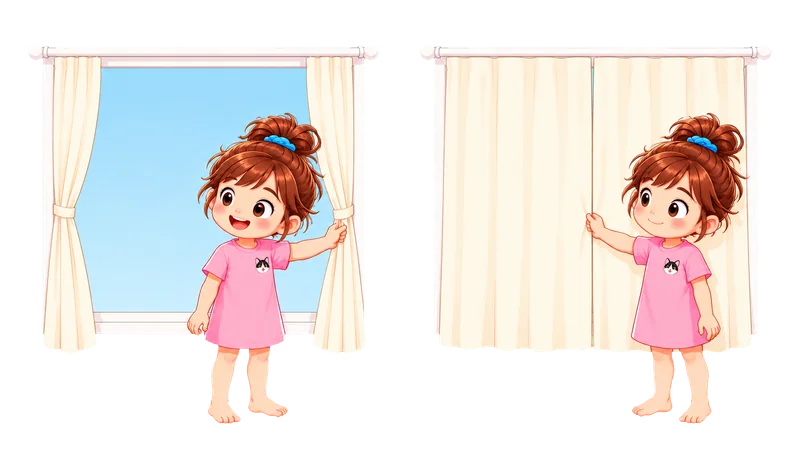
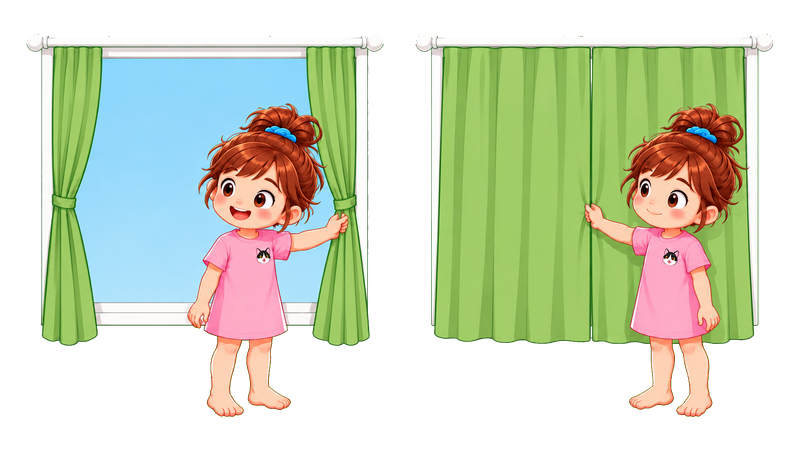
女の子のカーテンを若草色に変更

diff --git a/docs/image-log.md b/docs/image-log.md
@@ -2,6 +2,47 @@
 
 このファイルは `docs/image-prompts.md` に基づく制作の記録。**候補と採用済みを区別する。** 新しい画像を採用した場合は、実際に使ったプロンプト全文、添付した基準画像、透過・サイズ検査、所有者の承認を追記する。
 
+## 2026-10-11 — Action Match 女の子版「Open it.」「Close it.」カーテンを若草色に変更
+
+- **理由・採用：** 元の淡いクリーム色のカーテンは、実際のカードのクリーム色の背景に溶けて見えにくかった。落ち着いた若草色（基準 `#8FBF6A`）で全面的に描き直した `private-prototypes/action-match/action-open-girl-v4a.png.webp` を採用し、公開ルートの `action-open-girl-v2a.png.webp` にコピーして上書きした。候補 v4b は不採用。
+- **Close it.：** `private-prototypes/action-match/action-close-girl-v3a.png.webp` は、若草色の Open it. v4a の左右400×450pxを復号後の画素そのままで入れ替えたもの。こちらを公開ルートの `action-close-girl-v1a.png.webp` にコピーして上書きした。Close it. の画像生成プロンプトはなく、別案 v3b は不採用。両候補の元ファイルは非公開フォルダに残した。
+- **旧版の保存先：** 上書き前の公開画像は、`private-prototypes/action-match/action-open-girl-v2a.png.webp` と `private-prototypes/action-match/action-close-girl-v1a.png.webp` にそれぞれバイト単位で一致した。これらをクリーム色の元版として保管し、別名の退避ファイルは作らない。この後の v2a／v1a の生成・採用記録は、クリーム色版を制作した当時の記録である。公開側はファイル名を維持するが、中身は若草色版（それぞれ元は v4a／v3a）。
+- **不採用にした過程：** カーテンを領域指定で色置換した `action-open-girl-v3a.png.webp`／`action-close-girl-v2a.png.webp` と、人物マスクを追加した `action-open-girl-v3b.png.webp`／`action-close-girl-v2b.png.webp` は、人物との境目に緑のにじみやクリーム色のまだらが出たため不採用。画像を生成し直した v4a を採用した。
+- **元画像との差：** v4a はカーテン以外にも窓枠とレールがやや太く、顔・手の描線に小さな差がある。動作の意味は変わらないため許容した。
+- **仕上げ・検査：** 純緑背景 `#00FF00` の生成画像をアルファ透過し、縦横比を保って各800×450pxに収め、lossless WebP として保存。公開側と採用候補はそれぞれバイト単位で一致。公開2枚の四隅のアルファ値はすべて0。Close it. の対応コマは Open it. と復号後の画素が一致する。
+
+### v4a・v4b の生成時に添付した参考画像
+
+1. 公開ルートの旧 `action-open-girl-v2a.png.webp`（生成時の編集対象。構図・人物・窓・手・表情の基準。現在の公開ファイルは若草色版に差し替え済み）
+2. `docs/characters/girl-daywear-v1.png.webp`（顔・髪・昼服）
+3. 公開ルートの `cat-mascot-v2-small.png.webp`（胸の猫の顔）
+
+### 採用 v4a の生成プロンプト全文
+
+```text
+Use case: precise-object-edit
+Asset type: Action Match two-panel children's game illustration, Open it.
+Input images: Image 1 is the exact edit target and master for composition, character, window, hands, expressions, and proportions: action-open-girl-v2a.png.webp. Image 2 is only a reference for the same girl's face, high brown hair bun, blue scrunchie, pink daywear dress, and bare feet: girl-daywear-v1.png.webp. Image 3 is only a reference for the tiny simplified black-and-white cat face on her chest: cat-mascot-v2-small.png.webp.
+Primary request: Recreate Image 1 as faithfully as possible. Change ONLY the curtain and curtain tiebacks from pale cream to solid muted young-grass green centered around #8FBF6A. Use lighter and darker shades of the same green for fabric folds, with a fine darker-green contour. Never use chroma-key #00FF00 in the curtain.
+Composition: Wide 16:9, two equal-width side-by-side panels, no divider, no arrow. Left panel is BEFORE: curtains fully closed, the girl stands slightly in front of the window near its middle, body turned about 30 degrees toward it, with one hand touching the vertical center seam and the other arm at her side; calm focused gentle closed-mouth expression. Right panel is AFTER: curtains open from the middle to both sides, held by green fabric tiebacks, revealing a single flat pale blue sky; the same girl stands in the same place and size, holding a curtain edge with one hand; cheerful open-mouth smile. Keep the centered seam visible beside the girl. Keep all subjects clear of the panel boundary.
+Identity and invariants: Same single little girl in both panels; short pink sleeve dress, small cat-face emblem, bare feet, high brown bun with blue scrunchie. Keep her face shape, hair, body proportions, expression in each panel, pose, hand placements, height, foot baseline, and window size/position as close to Image 1 as possible. Shoulders, waist, legs, and face align naturally with no twist. White window frame and white curtain rail unchanged. Pale blue sky unchanged; no objects outside the window. Same polished children's-book digital illustration style.
+Backdrop: Pure flat chroma-key green #00FF00 outside the illustration, with no shadows, vignette, haze, translucent white mist, or extra background. The curtains are a clearly different muted green, not #00FF00.
+Avoid: changing the girl, pink outfit, cat badge, white frame, rail, sky color, window position, or panel layout; extra characters, cats, chairs, hats, socks, toys, books, boxes, text, symbols, arrows, stripes, patterns, ornamentation. No green bleed on hair, face, hands, dress, legs, or cat badge. All outline boundaries clean.
+```
+
+### 不採用 v4b の生成プロンプト全文
+
+```text
+Use case: precise-object-edit
+Asset type: Action Match two-panel children's game illustration, Open it., second candidate
+Input images: Image 1 is the exact edit target and master for composition, character, window, hands, expressions, and proportions: action-open-girl-v2a.png.webp. Image 2 is only the identity/daywear reference: girl-daywear-v1.png.webp. Image 3 is only the tiny simplified black-and-white cat-face emblem reference: cat-mascot-v2-small.png.webp.
+Primary request: Recreate Image 1 as faithfully as possible. The ONLY intentional difference from Image 1 is the curtain fabric color, including both tied-back curtain bands: muted young-grass green around #8FBF6A instead of pale cream. Make this an alternate candidate with slightly softer, broader fold shading than the other candidate, while preserving the same green hue and a fine darker same-hue contour. No patterns, stripes, writing, or ornaments. The curtain green must remain unmistakably different from pure chroma-key #00FF00.
+Composition: Wide 16:9 two equal-width panels with no divider and no arrow. BEFORE on the left: the curtain completely closed with a clear vertical center meeting line, girl slightly in front near center of window, body toward window by around 30 degrees, one hand on the center meeting line, the other at her side; quiet focused gentle smile. AFTER on the right: that same curtain split and opened from the center to both sides, tied with matching muted-green bands, single flat pale-blue sky visible; same girl at the same size and foot baseline, gently holding the side curtain with one hand and smiling brightly. Keep all shapes away from the center panel boundary.
+Identity and strict invariants: Use the exact same girl design and proportions as Image 1: brown high bun, bright blue scrunchie, pink short-sleeve daywear dress, tiny black-and-white cat face on chest, bare feet. Preserve the position and shapes of her face, arms, hands, shoulders, waist, feet, and posture as close as possible. No twisted anatomy. Preserve white window frame and rail, their size and position, and the pale blue sky color. Keep the original polished storybook-digital illustration touch.
+Backdrop: pure flat vivid chroma-key #00FF00 outside the illustration, no floor, wall, other scene, shadows, mist, alpha-like haze, or extra props.
+Avoid: altering the girl, hair, face, expressions, hands, cat emblem, clothing, window dimensions, white frame or rail, sky hue, panel layout; no extra people or cats, no toys, boxes, chairs, socks, balls, hats, text, arrows or symbols. No muted-green color bleeding into the girl or white window parts. Crisp clean boundaries.
+```
+
 ## 2026-10-11 — Action Match 女の子版「Put it on.」「Take it off.」靴下の色を変更
 
 - **理由：** 白い靴下は実際のカードのクリーム色の背景に溶け込んで見えにくかったため、無地のオレンジ（基準色 `#F28A24`、輪郭・陰影は濃い同系色）に変更した。

diff --git a/docs/action-match-plan.md b/docs/action-match-plan.md
@@ -64,8 +64,8 @@
 |---|---|---|
 | `Put it on.` | 黄色い丸いつばの帽子をかぶる（`action-put-on-boy-v3b.png.webp` 採用。もう一方の `action-put-on-boy-v3a.png.webp` は不採用） | 低い水色の丸椅子に座ってオレンジ（`#F28A24`）の無地の靴下をはく（公開画像 `action-put-on-girl-v3a.png.webp` はオレンジ版の内容）。左コマは奥の足に靴下、手前の足は裸足、手にはもう片方の靴下。右コマは両足に靴下 |
 | `Take it off.` | 同じ帽子をぬぐ（`action-take-off-boy-v1b.png.webp` 採用） | 同じオレンジの無地の靴下をぬぐ（公開画像 `action-take-off-girl-v3a.png.webp` はオレンジ版の内容）。低い水色の丸椅子に座り、左コマでは両足に靴下をはいたまま足元を見て手前の靴下のふちに両手をかけ、右コマでは両足が裸足で、ぬいだ靴下を足から離して胸の前に持つ。右コマは旧候補 v2a の右400×450pxを画素そのままで使用。床に座る旧候補 v1a・v1b と、脱ぐ前の動作がない v2a・v2b は採用しない |
-| `Open it.` | おもちゃ箱のふたを開ける（`action-open-boy-v1b.png.webp` 採用。箱はひざ程度の高さで、ふたは後ろの蝶つがいを支点に上へ開く） | カーテンを中央から左右に開ける（`action-open-girl-v2a.png.webp` 採用）。女の子は窓の中央の手前に立ち、左コマでは手をカーテンの中央のあわせ目に添え、右コマでは左右に開いたカーテンの端を持つ。窓の外は単色の淡い空 |
-| `Close it.` | 同じおもちゃ箱のふたを閉める（`action-close-boy-v1a.png.webp` 採用。`Open it.` の採用画像 v1b の左右400×450pxを画素そのままで入れ替えた） | 同じ窓・カーテン・立ち位置で、開いた状態から閉じる（`action-close-girl-v1a.png.webp` 採用）。`Open it.` 女の子版 v2a の左右400×450pxを画素そのままで入れ替え、右コマでは手を閉じたカーテンの中央のあわせ目に添える |
+| `Open it.` | おもちゃ箱のふたを開ける（`action-open-boy-v1b.png.webp` 採用。箱はひざ程度の高さで、ふたは後ろの蝶つがいを支点に上へ開く） | 若草色（基準 `#8FBF6A`）のカーテンを中央から左右に開ける（公開画像 `action-open-girl-v2a.png.webp` は候補 v4a の内容）。女の子は窓の中央の手前に立ち、左コマでは手をカーテンの中央のあわせ目に添え、右コマでは左右に開いたカーテンの端を持つ。窓の外は単色の淡い空 |
+| `Close it.` | 同じおもちゃ箱のふたを閉める（`action-close-boy-v1a.png.webp` 採用。`Open it.` の採用画像 v1b の左右400×450pxを画素そのままで入れ替えた） | 同じ窓・若草色のカーテン・立ち位置で、開いた状態から閉じる（公開画像 `action-close-girl-v1a.png.webp` は候補 v3a の内容）。`Open it.` 女の子版の若草色 v4a の左右400×450pxを画素そのままで入れ替え、右コマでは手を閉じたカーテンの中央のあわせ目に添える |
 | `Pick it up.` | 赤い無地のゴムボールを床からしゃがんで拾う（`action-pick-up-boy-v1a.png.webp` 採用） | 淡い紫のぞうのぬいぐるみを床からしゃがんで拾う（`action-pick-up-girl-v1b.png.webp` 採用） |
 
 **進み具合：** 新しい5語（`Put it on.`、`Take it off.`、`Open it.`、`Close it.`、`Pick it up.`）の男女10枚を採用し、候補画像を残したまま同名で公開ルートにもコピーして本体に組み込み済み。
@@ -74,5 +74,6 @@
 
 女の子の靴下の2動詞は、床に座る旧構図を使わず、低い水色の丸椅子に座り、体を右へ約30度向けた構図に統一する。
 白い靴下の原版は `private-prototypes/action-match/` の v3a に残し、公開ルートの同名 v3a は候補 v4a から差し替えたオレンジ版とする。実際のカードのクリーム色の背景でも見え方を確認する。
+カーテンのクリーム色の原版は `private-prototypes/action-match/` の `action-open-girl-v2a.png.webp` と `action-close-girl-v1a.png.webp` に残す。公開ルートの同名ファイルは、人物の縁に緑のにじみが出た色置換案ではなく、全面描き直しの若草色版に差し替えた。
 
 **見送った動詞：** `push / pull` は2コマでは押したか引いたか分かりにくい。`carry` は `Bring it to me.` と重なりやすい。`give` は `Bring it to me.` と絵でも耳でも区別しにくい。

diff --git a/docs/image-prompts.md b/docs/image-prompts.md
@@ -40,6 +40,17 @@ Do not change any character's hairstyle, hair color, face, or selected approved 
 3. 新しい画面や新しい種類の画像では、制作前に「この画像の上にアプリ側が重ねるものはあるか」を確認し、ない場合もその旨を報告する。
 4. アプリ側の重ね表示を新たに追加・変更するときは、既存画像の顔・手・重要な物と衝突しないか、実際のカードや画面で確認してから適用する。重なる場合は画像の構図を見直し、単に重ね表示の位置を動かして済ませない。
 
+## カードの背景色と物の描き分け
+
+Action Match、Think & Say、Listen & Do など、カードや場面に置く画像の主要な物は、表示先の背景と同系色にしない。Action Match のカードはごく淡いクリーム色（`#FFF8E7` 前後）から淡いベージュへのグラデーションなので、白・クリーム・淡いベージュ・淡い黄色の物は原則使わない。白い靴下やクリーム色のカーテンは、この背景に溶けて見えにくくなる例である。
+
+- 主要な物には、背景より明確に濃く、彩度のある色を選ぶ。目安は背景との明るさの差が大きいこと。白や淡い色が必要な場合は濃い同系色の細い輪郭線を足し、実際の背景上で見分けられることを確認する。
+- 透過処理で抜く緑 `#00FF00` に近い色を、物やその輪郭に使わない。
+- 小道具の色を決める際は、すでに使った帽子の黄、箱の茶、ボールの赤、椅子の水色、ぞうの紫、靴下のオレンジ、服のピンク、窓の空の水色と重ならないようにする。カーテンに検討している若草色も、ほかの小道具と区別する。
+- 透過画像を暗い背景で見るだけでなく、実際のカードのクリーム色・ベージュの背景に重ね、さらに小さく縮小した表示でも輪郭と動作の対象が分かるか確認する。
+
+経緯：女の子版の白い靴下はカード背景に溶けて見えにくかったため、オレンジに変更済み（`docs/image-log.md` に記録）。クリーム色のカーテンにも同じ問題があり、若草色への変更候補を検討している。カーテンの採用・公開画像の差し替えはまだ行っていない。
+
 ## 服の運用と未確定のバリエーション
 
 朝・夜（起床、朝ごはん、洗面所、寝る前など）はパジャマ、昼（遊び、外出、げんかん、公園など）は昼の服を使う。場面の区分と服、室内か屋外かを `[SCENE]` の `Who` に毎回明記する。子どものパジャマは星柄の襟付き長袖、昼の服は無地を基調とする半袖＋胸に小さな猫の顔で、一目で区別できるようにする。胸の猫は `cat-mascot-v2-small.png.webp` を基準とし、細部を描き込まない。
